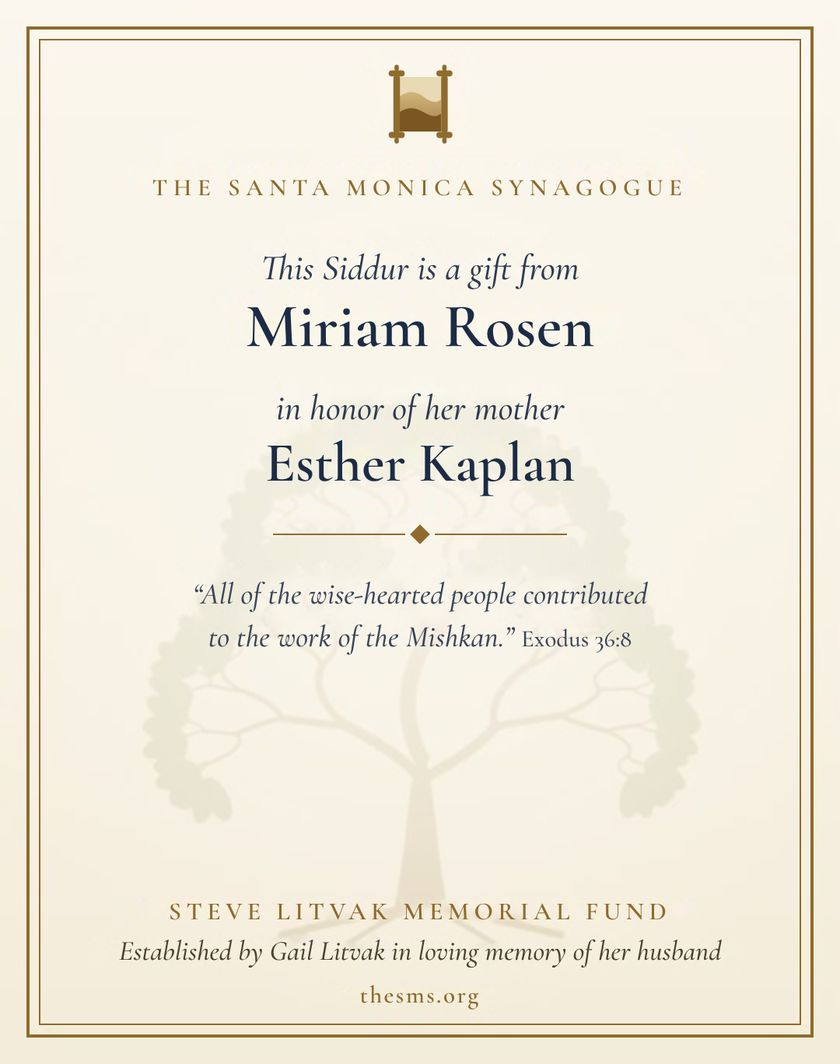
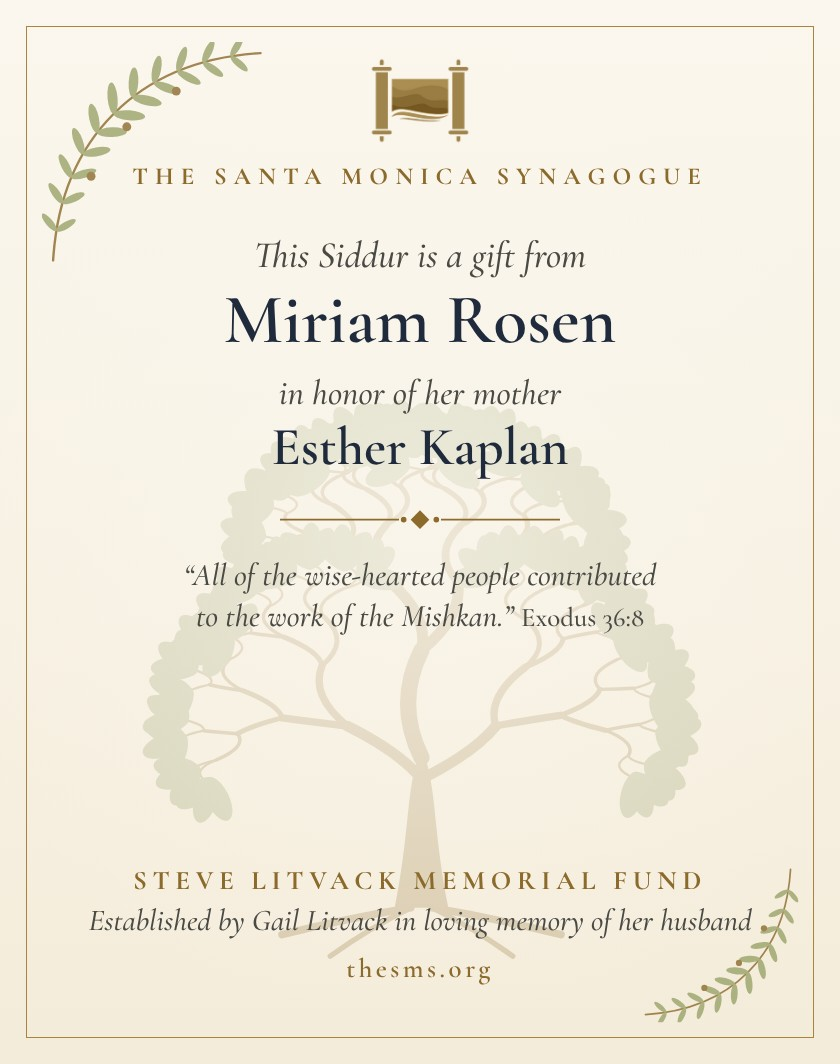
Siddur page: new bookplate design (olive branches + Tree of Life), fix spelling Litvack
Claude-Session: https://claude.ai/code/session_01XNwSHRhhxkWzXXQ3RQZeDz

Changed region(s): [[0.031, 0.0, 0.9905, 0.9925], [0.2167, 0.2171, 0.7738, 0.6203]]

diff --git a/src/pages/SiddurPage.jsx b/src/pages/SiddurPage.jsx
@@ -3,7 +3,7 @@ import { PageHero } from "../components/PageHero";
 import { PageLayout } from "../components/PageLayout";
 import { CONTACT, LINKS } from "../content/site";
 
-// Dedicate a Siddur (Steve Litvak Memorial Fund), Nov 2026.
+// Dedicate a Siddur (Steve Litvack Memorial Fund), Nov 2026.
 // The button opens the ShulCloud form /form/dedicate-a-siddur in the same
 // window, so members stay logged in and nobody gets lost in a new tab.
 // Wording follows the Weekly of November 27, 2026.
@@ -46,7 +46,7 @@ export function SiddurPage() {
   return (
     <PageLayout>
       <PageHero
-        eyebrow="Steve Litvak Memorial Fund"
+        eyebrow="Steve Litvack Memorial Fund"
         title={
           <>
             Dedicate a{" "}
@@ -63,8 +63,8 @@ export function SiddurPage() {
             </p>
             <p>
               The new siddurim were made possible by the{" "}
-              <strong className="text-white">Steve Litvak Memorial Fund</strong>
-              , established by Gail Litvak in loving memory of her husband,
+              <strong className="text-white">Steve Litvack Memorial Fund</strong>
+              , established by Gail Litvack in loving memory of her husband,
               Steve.
             </p>
             <p>
@@ -89,7 +89,7 @@ export function SiddurPage() {
             <figure className="sms-reveal mx-auto w-full max-w-[26rem] lg:sticky lg:top-28">
               <img
                 src="/photos/sms-siddur-bookplate.jpg"
-                alt="Example of a bookplate: This Siddur is a gift from Miriam Rosen, in honor of her mother, Esther Kaplan. All of the wise-hearted people contributed to the work of the Mishkan. Exodus 36:8. Steve Litvak Memorial Fund."
+                alt="Example of a bookplate: This Siddur is a gift from Miriam Rosen, in honor of her mother, Esther Kaplan. All of the wise-hearted people contributed to the work of the Mishkan. Exodus 36:8. Steve Litvack Memorial Fund."
                 width="840"
                 height="1064"
                 className="w-full h-auto rounded-[0.6rem] shadow-[0_24px_50px_-24px_rgba(11,58,91,0.45)] border border-[#e6dcc8]"
